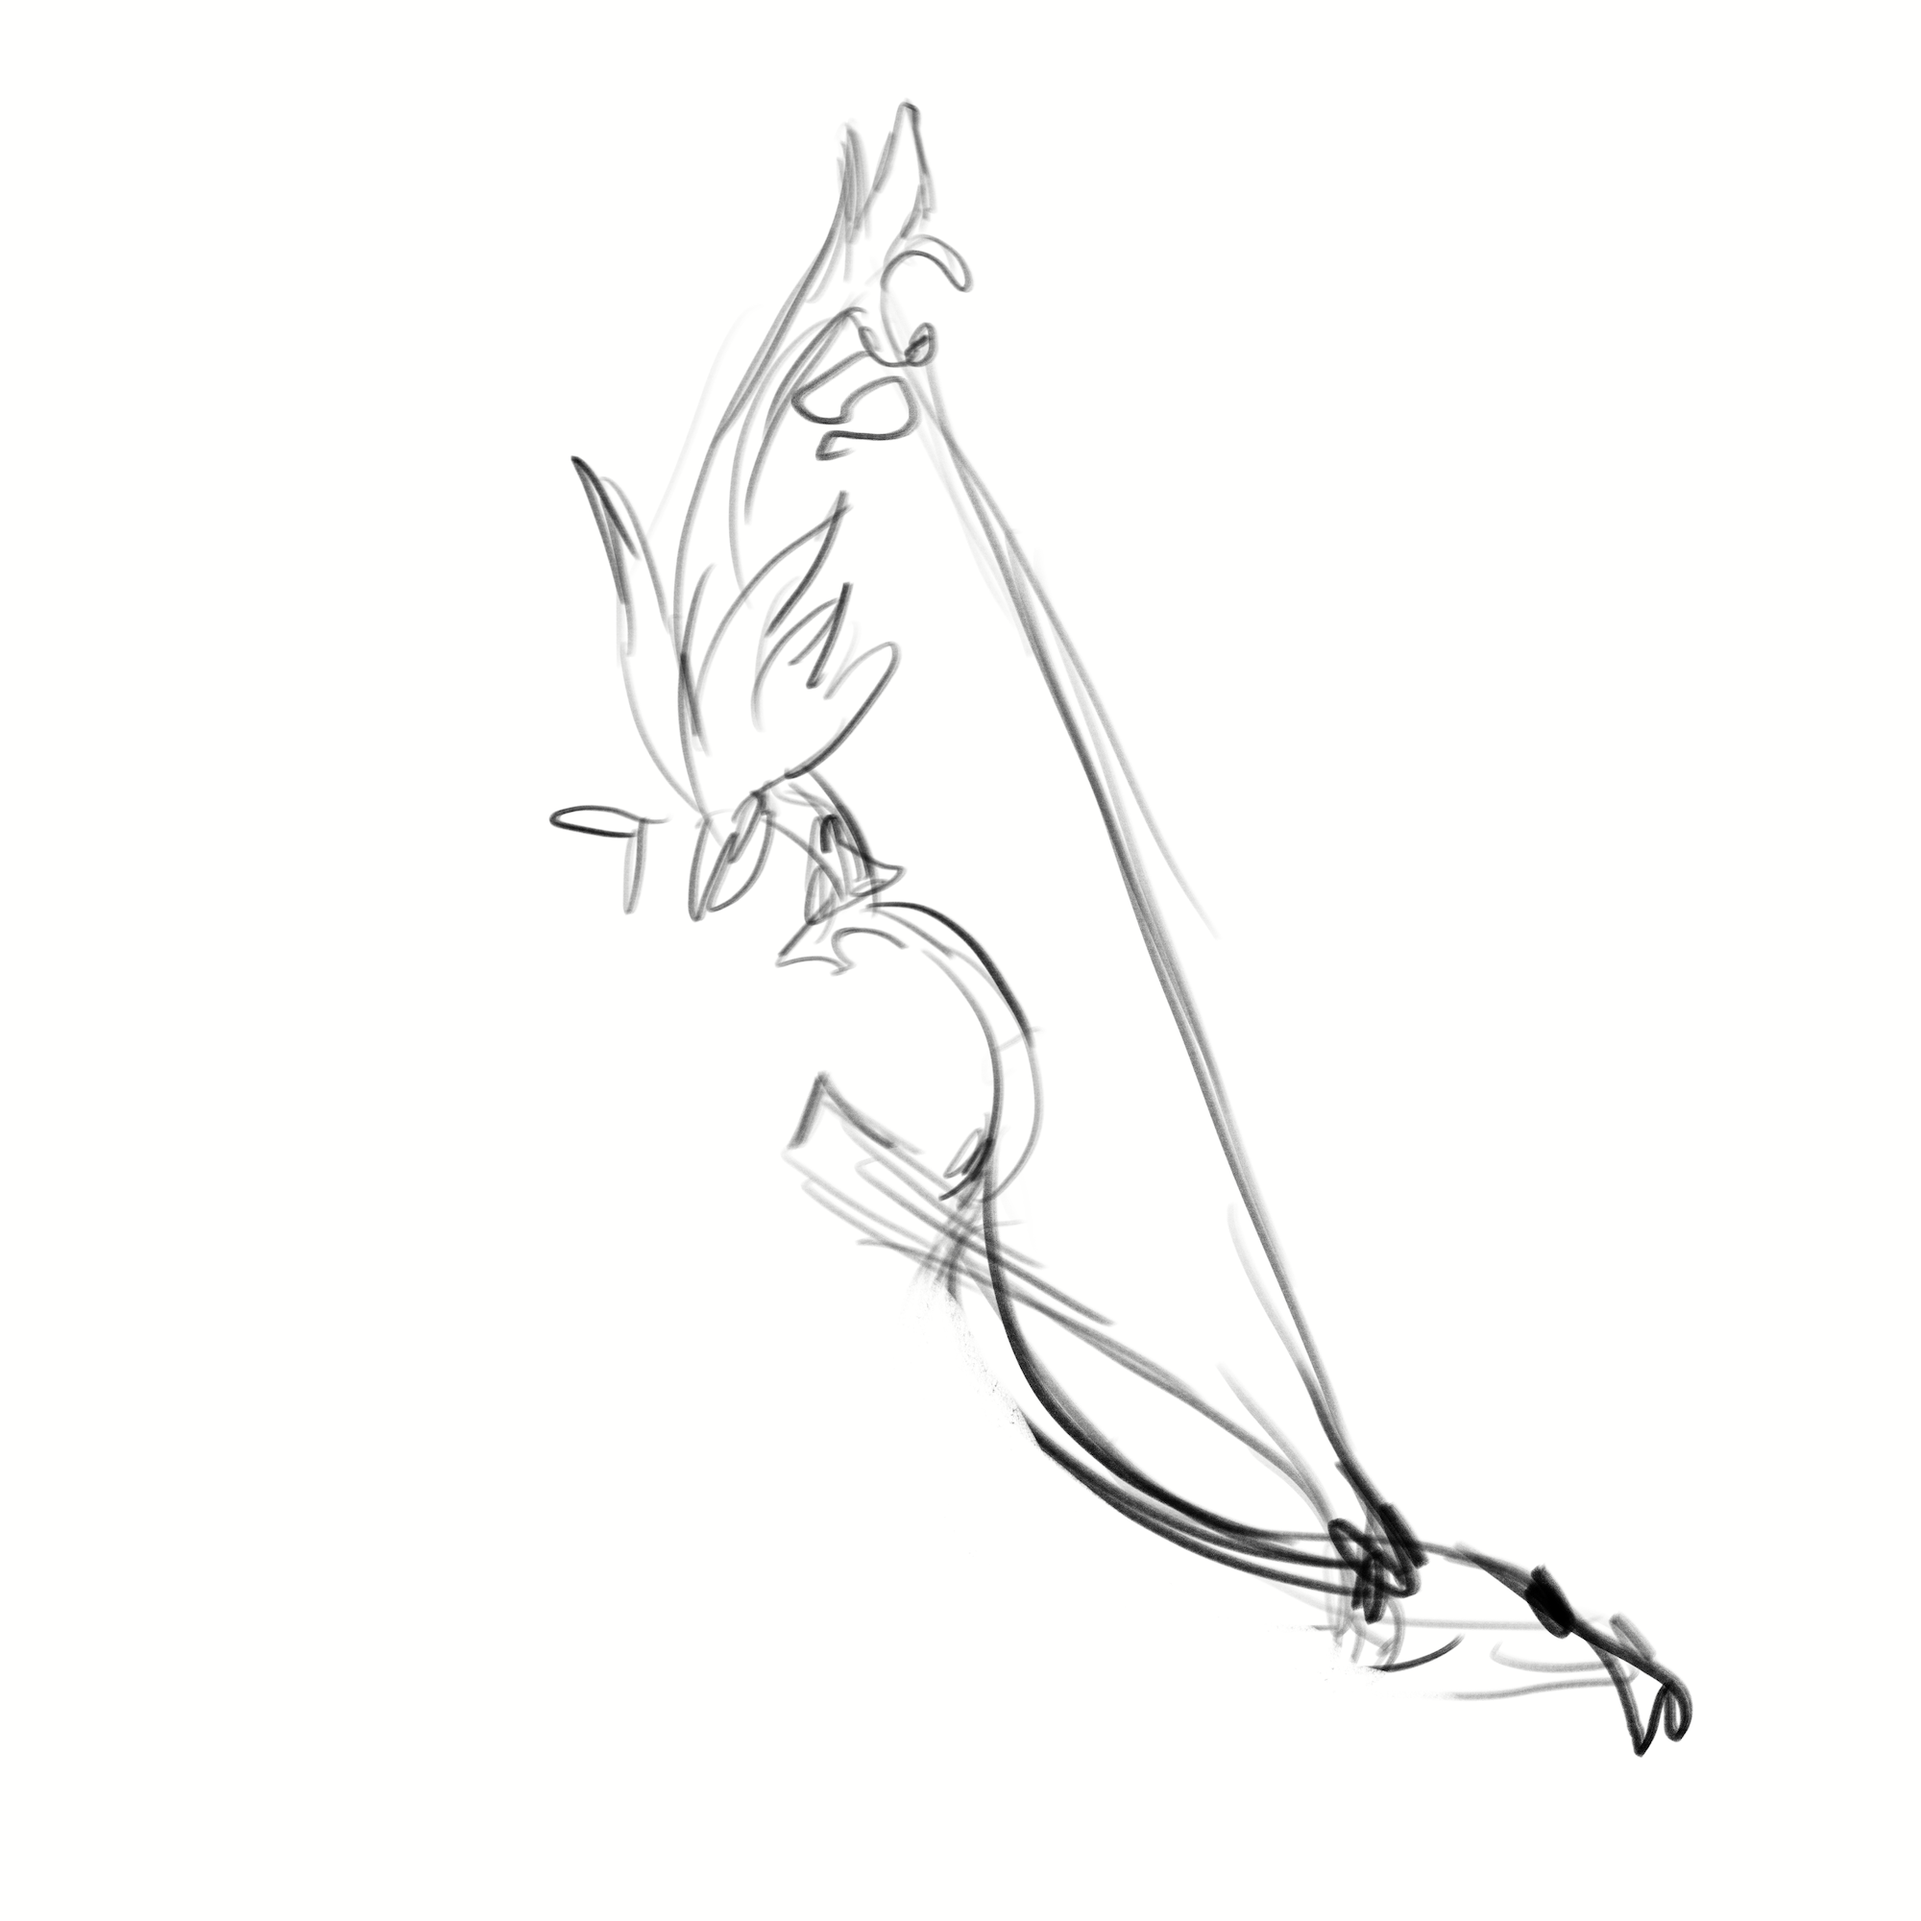
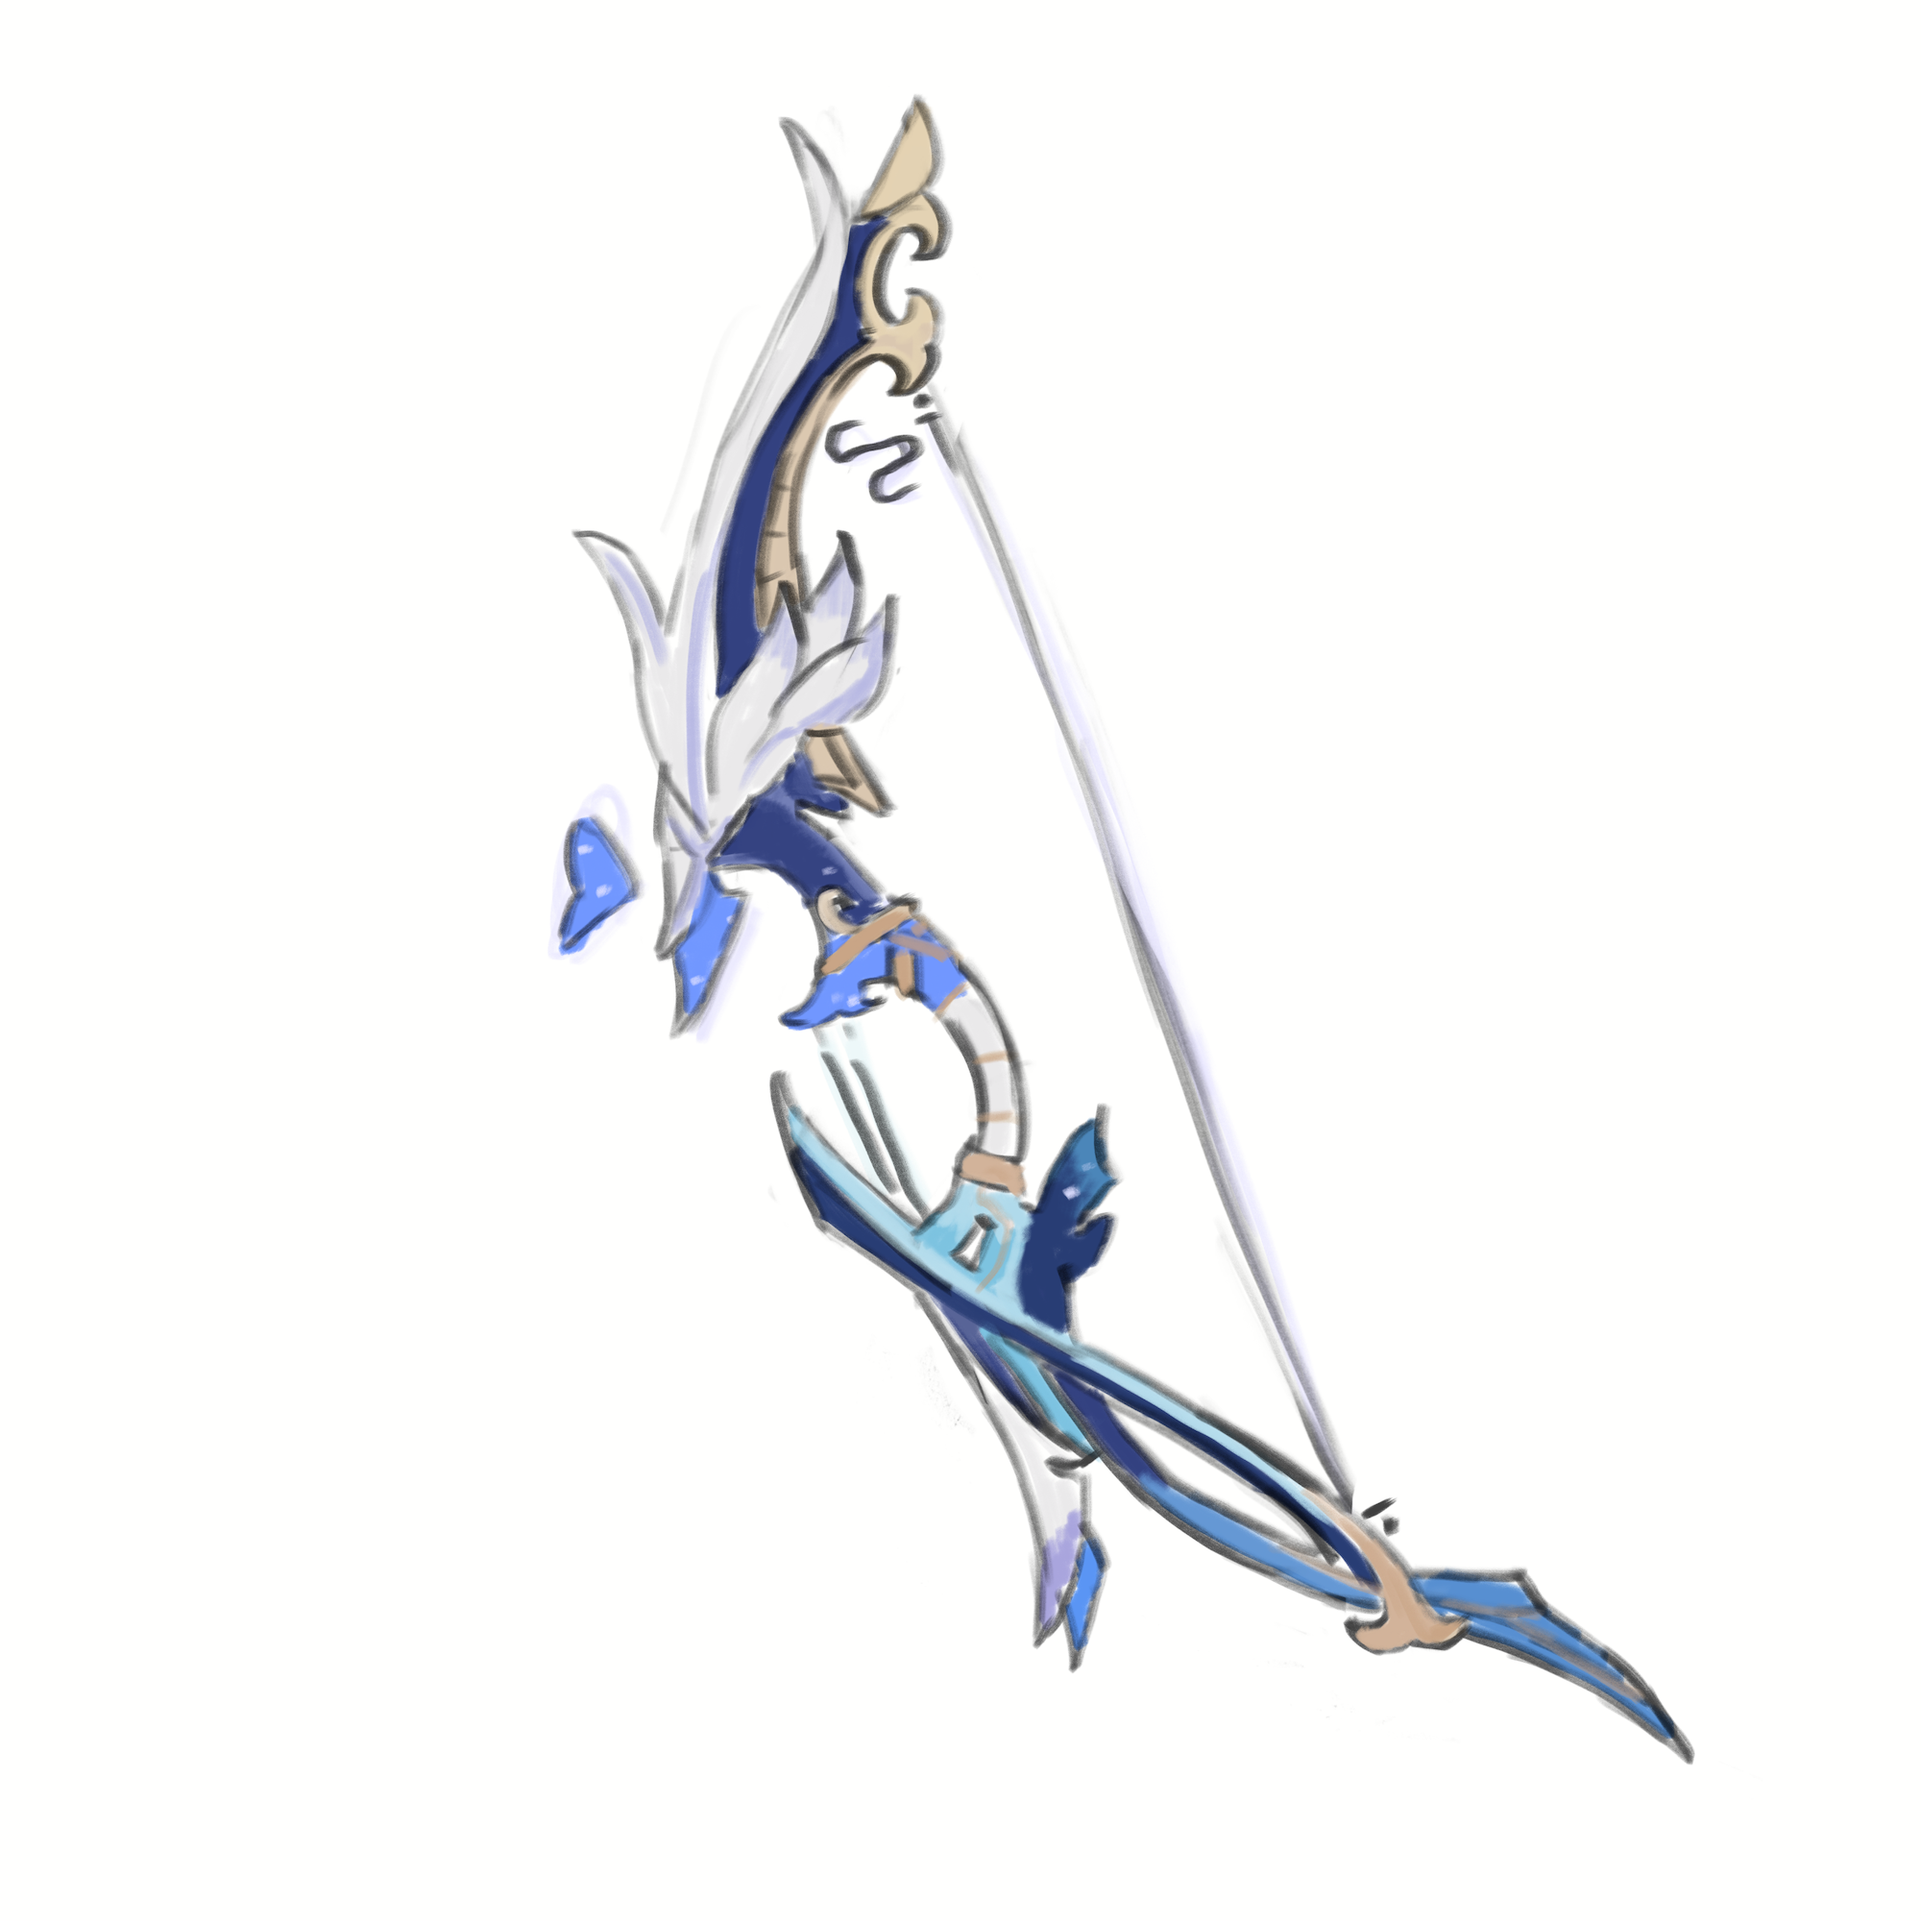
optimized check yourself a little bit more + updated art and some other small stuff; Momo added for funsies

Changed region(s): [[0.279, 0.031, 0.899, 0.93]]

diff --git a/studio2/styles.css b/studio2/styles.css
@@ -55,6 +55,7 @@ body:before {
 	text-align: justify;
 	transform: translateX(-50%);
 	background: linear-gradient(to bottom, rgba(255,255,255,0) 0%, rgba(255,255,255,0) 45%, rgb(255, 223, 45) 51%, rgba(255,255,255,0) 57%, rgba(255,255,255,0) 100%);
+        z-index: 1;
 }
 .timeline:after {
         display: inline-block;
@@ -93,6 +94,9 @@ body:before {
         font-weight: 300;
         font-style: normal;
         font-size: 1.2em;
+        position: absolute;
+
+        top: 0;
         
 }
 
@@ -108,104 +112,90 @@ body:before {
         z-index: -1000;
 }
 
-.entry:hover:before {
-        opacity: 0;
-}
-
-#points {
-        position: absolute;
-        top: 0;
-        left: 50%;
-        z-index: -1;
-        width: 90vw;
-        transform: translate(-50%, 0);
-	margin: 0 auto;
-}
-
 #entry1 {
         position: absolute;
-        left: 12%;
+        left: 14%;
 }
 
 #entry2 {
         position: absolute;
-        left: 16%;
+        left: 18.5%;
 }
 
 #entry3 {
         position: absolute;
-        left: 17%;
+        left: 19.5%;
 }
 
 #entry4 {
         position: absolute;
-        left: 19%;
+        left: 21.5%;
 }
 
 #entry5 {
         position: absolute;
-        left: 20%;
+        left: 22.5%;
 }
 
 #entry6 {
         position: absolute;
-        left: 34%;
+        left: 35%;
 }
 
 #entry7 {
         position: absolute;
-        left: 35%;
+        left: 36%;
 }
 
 #entry8 {
         position: absolute;
-        left: 51%;
+        left: 50%;
 }
 
 #entry9 {
         position: absolute;
-        left: 52%;
+        left: 51%;
 }
 
 #entry10 {
         position: absolute;
-        left: 53%;
+        left: 52%;
 }
 
 #entry11 {
         position: absolute;
-        left: 54%;
+        left: 53%;
 }
 
 #entry12 {
         position: absolute;
-        left: 57%;
+        left: 57.5%;
 }
 
 
 #entry13 {
         position: absolute;
-        left: 61.6%;
+        left: 61%;
 }
 
 #entry14 {
         position: absolute;
-        left: 63%;
+        left: 62%;
 }
 
 #entry15 {
         position: absolute;
-        left: 64%;
+        left: 63%;
 }
 
 #entry16 {
         position: absolute;
-        left: 71.1%;
+        left: 68.5%;
 }
 
 #entry17 {
         position: absolute;
-        left: 90.1%;
+        left: 86.1%;
 }
 
 .entry h3 {
@@ -261,12 +251,13 @@ header {
         position: absolute;
         top: 0;
         left: 0;
-        z-index: 100;
-    }
-    #info{
+        z-index: 1000;
+}
+
+ #info{
         background-color: white;
         color: black;
-        width: 80vw;
+        width: 60vw;
         padding: 3em;
         border-radius: 1em;
         margin: auto;
@@ -274,23 +265,36 @@ header {
         text-align: center;
         font-family: "acier-bat-strokes", sans-serif;
         font-weight: 400;
+        font-style: normal;  
+}
+
+#info h2 {
+        font-size: 2em;
+}
+
+#info h3 {
+        font-family: "casablanca-urw", sans-serif;
+        font-weight: 300;
         font-style: normal;
-    }
+}
     
-    #info p {
+#info p {
         text-align: left;
         font-family: "casablanca-urw", sans-serif;
         font-weight: 300;
         font-style: normal;
-    }
+        font-size: 1.2em;
+}
     
-    .open {
+.open {
         display: block;
-    }
-    .closed {
+}
+
+.closed {
         display: none
-    }
-    #openinfo {
+}
+
+#openinfo {
         border-radius: 50%;
         border: 1px solid white;
         color: white;
@@ -303,7 +307,18 @@ header {
         position: absolute;
         top: 10px;
         left: 10px;
-    }
-    #openinfo:hover {
+}
+
+#openinfo:hover {
         background-color: rgba(255, 255, 255, 0.5);
-    }
+}
+
+#moom {
+        position: absolute;
+        bottom: -10vh;
+        right: 0;
+}
+
+a:hover {
+        color: rgb(255, 228, 76);
+}

diff --git a/studio2/index.html b/studio2/index.html
@@ -4,7 +4,7 @@
     <meta charset="UTF-8">
     <meta http-equiv="X-UA-Compatible" content="IE=edge">
     <meta name="viewport" content="width=device-width, initial-scale=1.0">
-    <title>Gacha... is... pain...</title>
+    <title>Gacha... Is... Pain...</title>
     <link href="styles.css" rel="stylesheet">
     <link rel="stylesheet" href="https://use.typekit.net/yey8pnh.css">
     <script src="script.js" defer></script>
@@ -21,9 +21,10 @@
     <div id="overlay" class="closed">
         <section id="info">
             <h2>Information:</h2>
-            <p>So this page is based on my pulls in a game called Genshin Impact. It's a little complicated to explain what everything means but here's a <a href="https://en.wikipedia.org/wiki/Genshin_Impact">link</a> that gives some more context. You can also access a page that will explain more about what a gacha game is (since this page is about the gacha aspect).</p> 
-            <p>Also, I still want to add some more to this page, and I would also really like to clean up the art for it. Uhhh... drawing like 10 pieces when you have another studio and 2 other classes is a little... </p>
-            <p>Furthermore, the background and gems are not my art; I took them from the game itself. Personally, I would make my own iteration of it but I just didn't have the time to. Everything else is my own though.</p>
+            <h3>-- AS STATED BY MOMO FOR ME --</h3>
+            <p>So this page is based on my pulls in a game called Genshin Impact. If you don't know what it's about, here's a <a href="https://genshin-impact.fandom.com/wiki/Genshin_Impact">link</a> that gives some general information. To give more context about the actual contents of this page <a href="https://genshin-impact.fandom.com/wiki/Wish">this link</a> will explain the gacha system I am referring to (like what the 50/50 denotes). Although even if you don't understand it, all you need to know is my luck is not great and it is pain.</p> 
+            <p>Furthermore, the background and gems are not my art; I took them from the game itself. Personally, I would make my own iteration of it but I just didn't have the time to.  Everything else is my own though, although I heavily referenced the weapons.</p>
+            <img id="moom" src="images/mimi.png">
             <button id="closeinfo">Alright!</button>
         </section>
     </div>
@@ -39,7 +40,7 @@
             <li data-year="April, 2023"></li>
             <li data-year="May, 2023"></li>
         </ul>
-<div id="points">
+        
         <div id="entry1" class="entry"></div>
         <div id="entry2" class="entry"></div>
         <div id="entry3" class="entry"></div>
@@ -57,7 +58,6 @@
         <div id="entry15" class="entry"></div>
         <div id="entry16" class="entry"></div>
         <div id="entry17" class="entry"></div>
-</div>
     </main>
     
 </body>

diff --git a/studio2/script.js b/studio2/script.js
@@ -18,9 +18,6 @@
         const getData = await fetch ('data.json');
         const data = await getData.json();
         globalData = Object.values(data);
-        console.log(globalData);
-        console.log(globalData[0].name)
-        
         
         for (let i = 0; i<entryPoints.length; i++) {
             entryPoints[i].addEventListener('mouseover', function(data){
@@ -42,7 +39,7 @@
         let html = `<h3>${data[dataPoint].date}</h3>`;
         html += `<div><ul><li>Obtained: ${data[dataPoint].name}</li>`;
         html += `<li>Took ${data[dataPoint].pity} rolls</li>`;
-        html += `<li>50/50? ${data[dataPoint].fifty_fifty}</li>`;
+        html += `<li>Win the 50/50? ${data[dataPoint].fifty_fifty}</li>`;
         html += `<li>Rolled on: ${data[dataPoint].banner} banner</li></ul></div>`;
         return html;
     }
